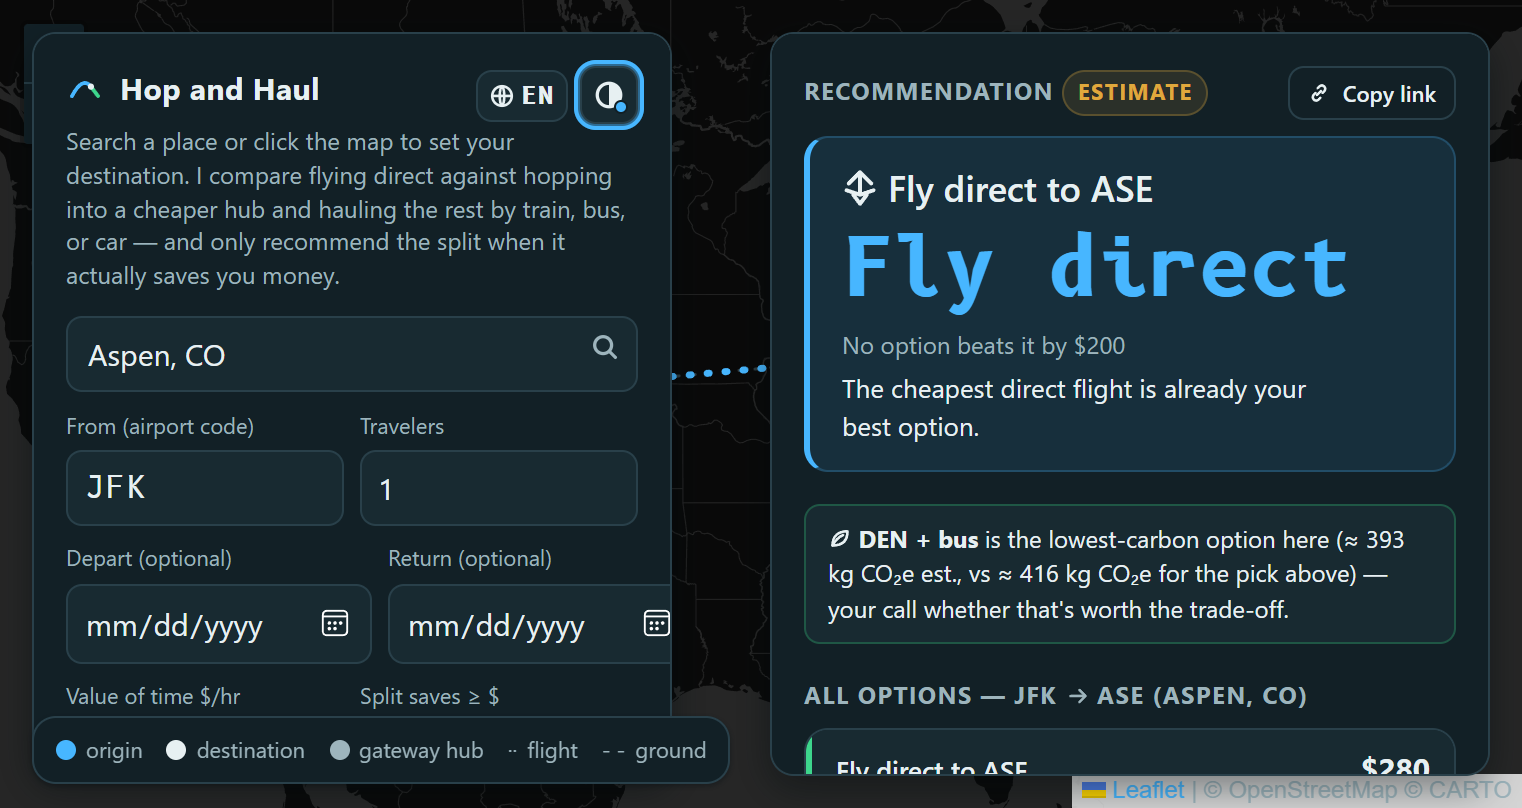
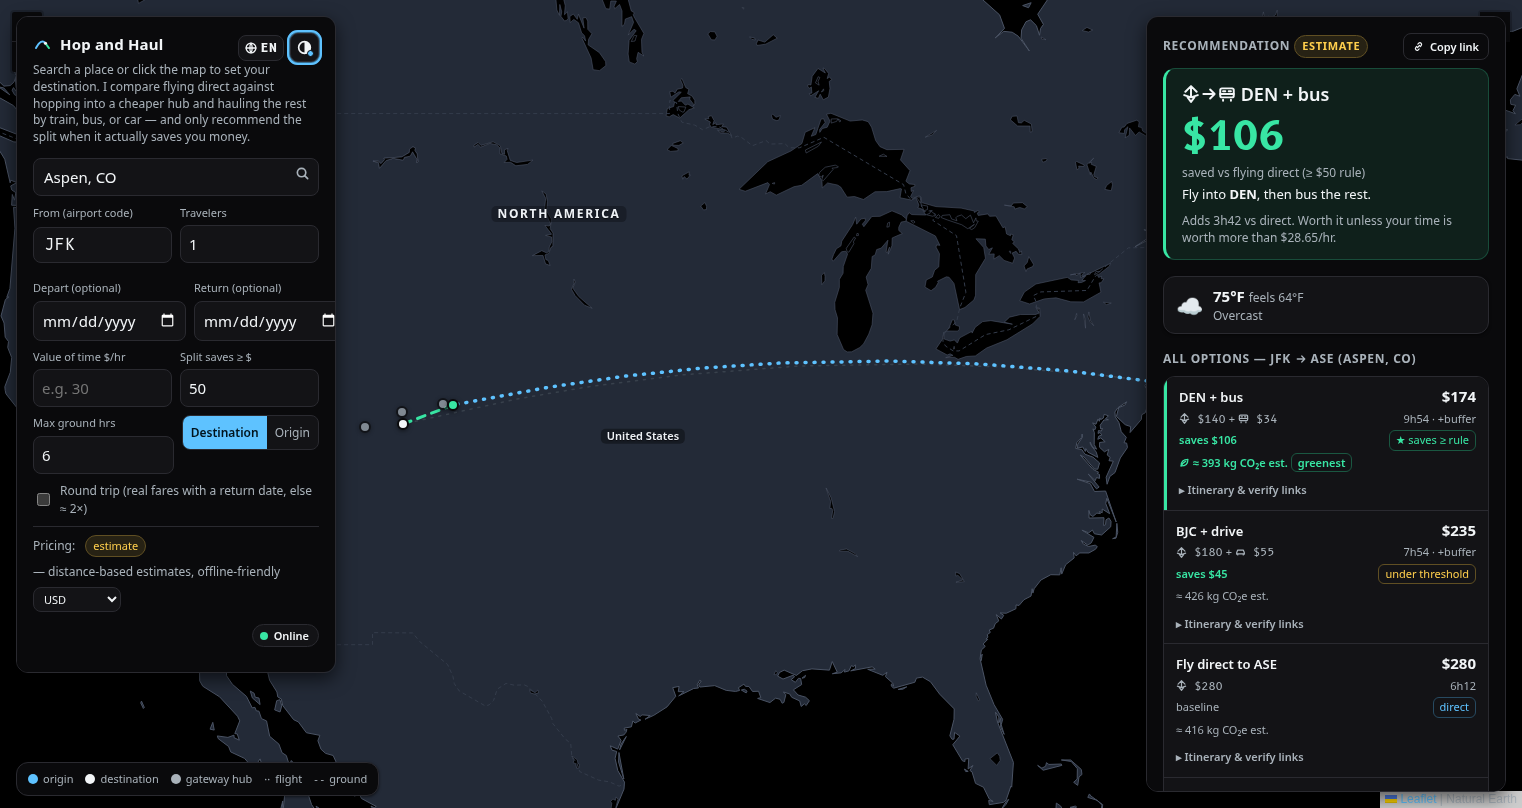
Tell the README the truth about what shipped
The currency paragraph said the web UI was USD-only. The features list
credited CARTO for a map the app now draws itself from Natural Earth.
The multicity example carried prices from before the Bustang fare fix.
All three screenshots showed the old tiles. Regenerated against the
running app and rewrote only the sentences whose facts changed.

diff --git a/README.md b/README.md
@@ -11,7 +11,7 @@ train ride from there is worth it.**
 > **Try it live:** [munzzyy.github.io/hopandhaul](https://munzzyy.github.io/hopandhaul/).
 > No install, no keys, runs entirely in your browser.
 
-![Click a destination and the recommendation card answers with the math: cost, time, CO2 per option, the $200 rule applied](docs/media/app-dark.png)
+![Click a destination and the recommendation card answers with the math: cost, time, CO2 per option, the $200 rule applied, on a self-drawn offline map](docs/media/app-dark.png)
 
 Click anywhere on the map and a recommendation card slides in: cost, time, and a CO2
 estimate for every option side by side. A copy-link button turns the plan into a URL you
@@ -101,21 +101,21 @@ hopandhaul multicity --home JFK --visit "Aspen,Boston,Chicago" --threshold 50
 ```
 
 ```
-MULTI-CITY TOUR: JFK -> ASE -> ORD -> BOS -> JFK
+MULTI-CITY TOUR: JFK -> BOS -> ORD -> ASE -> JFK
 round trip, 4 stops, solved via held-karp (exact)
 
 ITINERARY:
-  1. JFK -> ASE     $215    9h54  multimodal (fly $140 + bus $75)
-  2. ASE -> ORD     $170    3h06  direct     (fly $170)
-  3. ORD -> BOS     $105    3h06  direct     (fly $105)
-  4. BOS -> JFK      $70    1h30  direct     (fly $70)
+  1. JFK -> BOS      $70    1h30  direct     (fly $70)
+  2. BOS -> ORD     $105    3h06  direct     (fly $105)
+  3. ORD -> ASE     $139    8h36  multimodal (fly $105 + bus $34)
+  4. ASE -> JFK     $174    9h54  multimodal (bus $34 + fly $140)
 
-TOTAL: $560 across 4 legs
+TOTAL: $488 across 4 legs
 ```
 
-That first leg is the point: at a $50 threshold, flying into Denver and taking a bus the
-rest of the way to Aspen beats a direct flight, so the tour routes through DEN instead of
-pricing every leg as a straight flight. `--open` ends the tour at the last stop instead of
+Those Aspen legs are the point: at a $50 threshold, flying into Denver and taking the posted
+$34 Bustang fare the rest of the way beats a direct flight, so the tour routes through DEN
+instead of pricing every leg as a straight flight. `--open` ends the tour at the last stop instead of
 looping back home, and `--travelers N` scales group costs the same way the rest of the
 engine does. Up to about 9 cities it solves exactly (Held-Karp); past that it switches to a
 nearest-neighbor-plus-2-opt heuristic and says so in the output.
@@ -186,9 +186,14 @@ More of this tool is real data than you'd guess for something with zero keys:
   on those legs are still estimates, because schedules are open data and ticket prices mostly aren't.
 - **US fares are anchored to what passengers actually paid.** The bundled
   [BTS Consumer Airfare Report](https://data.transportation.gov/d/yj5y-b2ir) extract (public
-  domain) carries real average fares for ~4,100 US city-pair markets; the model is clamped
-  into each route's real band, and the itinerary shows the real market numbers next to the
-  estimate.
+  domain, currently 2025Q2-2026Q1) carries real average fares for ~4,100 US city-pair markets;
+  the model is clamped into each route's real band, and the itinerary shows the real market
+  numbers next to the estimate.
+- **The base map is self-drawn, not fetched.** Land, lakes, and borders are rasterized from
+  bundled Natural Earth 1:50m geometry, themed to match whichever of the 8 UI themes is active,
+  with zero tile requests and no watermark. An opt-in "detailed map" layer streams real
+  OpenStreetMap raster tiles once you turn it on, and falls back to the drawn map automatically
+  if that connection drops.
 - **Live airfares (Duffel)**: actual priced itineraries when you set `DUFFEL_API_KEY`: real
   carrier, flight number, and clock times, labeled "live" instead of "example." No key falls
   back to the labeled estimate automatically. (The old Amadeus fallback is gone: Amadeus shut
@@ -197,6 +202,10 @@ More of this tool is real data than you'd guess for something with zero keys:
   competition, airport size, booking date) calibrated against real fares. Every estimate says
   so: `"pricing_source": "estimate"` in the API, plain English in the UI, per-leg provenance
   in the itinerary. It's a model, not a promise; verify before booking.
+- **The last mile is priced too, not assumed away.** An airport is a stand-in for the place you
+  actually clicked; when the two are more than 12km apart, every option (the direct flight
+  included) prices a real final ground leg from the airport onward to that point. Where no
+  honest way to cross the gap exists, the tool says so instead of inventing one.
 - **Weather ([Open-Meteo](https://open-meteo.com))** and **place search
   ([Photon](https://photon.komoot.io))** are real, live, and keyless. A Geoapify key upgrades
   search to full address-level geocoding if you want it.
@@ -218,11 +227,21 @@ More of this tool is real data than you'd guess for something with zero keys:
   fly, live-priced when a Duffel key is set, labeled per date so you know which
 - Deterministic split-vs-direct engine with the $200 rule (configurable threshold and value
   of time)
-- Group-aware costs (per-person fares scale by travelers; a rental car doesn't)
+- Group-aware costs (per-person fares scale by travelers; a rental car scales per-vehicle
+  instead, `ceil(travelers / 4)` cars, priced and said so)
 - Round-trip aware (real return pricing when the provider supports it, a stated estimate
   otherwise)
-- Gateway discovery: curated hub suggestions plus geometric fallback search, worldwide
-- Click-anywhere map UI (Leaflet self-hosted; map tiles stream from CARTO's servers)
+- Gateway discovery: curated hub suggestions plus geometric fallback search, worldwide, on
+  both ends of the trip (a remote or expensive origin gets split options too, not just the
+  destination)
+- Every option prices the actual point you clicked, not just the airport: a final ground leg
+  covers the gap when your destination is meaningfully far from its airport
+- Click-anywhere map UI (Leaflet self-hosted; the base map is drawn from bundled Natural Earth
+  geometry, zero tile servers, works fully offline; an opt-in "detailed map" layer streams real
+  OpenStreetMap tiles only once you turn it on)
+- An Online/Offline status chip next to the pricing badge (Auto/Online/Offline) tells you
+  plainly what the app is allowed to reach; offline mode skips every external request and
+  sticks to bundled data
 - UI in 46 languages, four of them fully right-to-left, behind a hand-rolled i18n runtime
   instead of a framework. Pick yours from the globe button
 - Eight themes plus Auto, picked from the header: Departure Board, Boarding Pass, Night
@@ -248,11 +267,12 @@ instead of breaking.
 Native speaker and you spot something off? A translation fix in
 `src/hopandhaul/ui/i18n/<code>.json` is about the friendliest PR there is.
 
-The language switches; the money doesn't, yet. The web UI still quotes every price in USD
-no matter which of the 46 languages it's showing. The CLI commands (`go`, `duffel`,
-`multicity`, `dates`) already take `--currency EUR` (or GBP, JPY, INR, and most other
-world currencies) to print the report in that currency instead - the $200 rule and every
-internal comparison stay in USD, only the final printed number changes:
+The web UI has its own display-currency selector now (USD by default): live daily ECB rates
+from [frankfurter.dev](https://frankfurter.dev) when the app is online, a bundled approximate
+table offline, labeled which one is in use. The CLI commands (`go`, `duffel`, `multicity`,
+`dates`) take the same idea as `--currency EUR` (or GBP, JPY, INR, and most other world
+currencies) to print the report in that currency instead. Either way, the $200 rule and every
+internal comparison stay in USD; only the final printed number changes:
 
 ```
 hopandhaul go JFK "Tallinn" --date 2027-06-15 --currency EUR
@@ -262,8 +282,9 @@ hopandhaul go JFK "Tallinn" --date 2027-06-15 --currency EUR
 
 - `trip.py`: the $200-rule math. Given a set of priced options, decides what to recommend and
   why.
-- `geo.py`: the estimation model. Nearest airport, gateway discovery, and the distance-based
-  fare/ground formulas.
+- `geo.py`: the estimation model. Nearest airport, gateway discovery run symmetrically on both
+  origin and destination (so a remote/expensive origin gets split options too), the final-leg
+  ground calculation for the actual clicked point, and the distance-based fare/ground formulas.
 - `itinerary.py`: turns a priced option into a leg-by-leg timeline with real airport names, an
   example (or, with a live fare, real) clock schedule, per-leg price provenance, and a verify
   link. No invented flight numbers, no fake departure-time precision, no pretending a
@@ -280,9 +301,26 @@ hopandhaul go JFK "Tallinn" --date 2027-06-15 --currency EUR
   small city counts; nearest-neighbor + 2-opt above that) over a cost matrix built by pricing
   every leg through `geo.py`/`trip.py`, the same way `go.py`/`server.py` price one.
 - `server.py`: the stdlib `http.server` app. Serves the UI and the JSON API, nothing else.
+- `ui/atlas.js`: the self-drawn base map, a Leaflet `GridLayer` that paints land, lakes, and
+  borders on a canvas tile from bundled Natural Earth geometry instead of a raster tile
+  server, themed per UI theme. `ui/map.js` layers an opt-in OSM detail tile layer over it,
+  requested only once you turn it on, with an automatic fall back to the drawn map if that
+  connection fails.
+- `ui/connectivity.js` / `ui/netchip.js`: the explicit Auto/Online/Offline mode and its status
+  chip. Offline (forced, or auto-detected via the browser's own online/offline state) gates
+  every external fetch in `ui/api.js`/`ui/transit.js`, so live schedules, extended place
+  search, weather, live FX, and the OSM detail layer honestly announce they need a connection
+  instead of silently retrying.
+- `ui/fx.js`: the web UI's display-currency conversion, mirroring `duffel.py`'s FX table as the
+  offline fallback and upgrading to a live daily ECB rate from frankfurter.dev when online. The
+  $200 rule and all internal math stay USD; this only changes what gets printed.
+- `ui/sw.js`: the PWA service worker. Boots a shared deep link while offline, keeps downloaded
+  language catalogs cached across app updates, and gets its cache name stamped with the commit
+  SHA on every Pages deploy.
 - `data/`: the bundled real-world datasets. 4,175 airports (OurAirports), 85 ferry corridors
-  (researched, sourced per entry), a 0.25° land/water grid (Natural Earth), and real US
-  market fares (BTS). `tools/` has the scripts that regenerate them.
+  (researched, sourced per entry), a 0.25° land/water grid and the basemap geometry (both
+  Natural Earth), and real US market fares (BTS). `tools/` has the scripts that regenerate
+  them.
 
 Every one of these is a plain, readable module you can open and check the reasoning of, not a
 black box. See `docs/api.md` for the exact HTTP contract.
@@ -329,8 +367,8 @@ The bundled datasets and keyless services this tool leans on, with licenses:
 
 - **[OurAirports](https://ourairports.com/data/)**: the 4,175-airport database (public
   domain).
-- **[Natural Earth](https://www.naturalearthdata.com/)**: the land/water grid is rasterized
-  from their 1:50m land polygons (public domain).
+- **[Natural Earth](https://www.naturalearthdata.com/)**: the land/water grid and the
+  self-drawn base map are both rasterized from their 1:50m land polygons (public domain).
 - **[US DOT/BTS Consumer Airfare Report](https://data.transportation.gov/d/yj5y-b2ir)**:
   real US city-pair market fares (US government work, public domain).
 - **Ferry corridors**: researched by hand from operator and aggregator pages; every entry in
@@ -340,10 +378,11 @@ The bundled datasets and keyless services this tool leans on, with licenses:
 - **[Photon](https://photon.komoot.io)** by komoot: keyless geocoding over OpenStreetMap
   data. Map data on both: © OpenStreetMap contributors,
   [ODbL](https://www.openstreetmap.org/copyright).
+- **[OpenStreetMap](https://www.openstreetmap.org/copyright)**: the opt-in "detailed map" raster
+  tile layer you can switch on over the self-drawn base, © OpenStreetMap contributors, ODbL.
 - **[Open-Meteo](https://open-meteo.com)**: weather, CC-BY 4.0, free for non-commercial use.
-- **[frankfurter.dev](https://frankfurter.dev)**: daily ECB exchange rates for converting
-  non-USD live fares; the bundled approximate table is the offline fallback.
-- **[CARTO](https://carto.com/attributions)** basemap tiles © OpenStreetMap contributors.
+- **[frankfurter.dev](https://frankfurter.dev)**: daily ECB exchange rates for the display
+  currency selector (both web and CLI); the bundled approximate table is the offline fallback.
 
 ## Contributing / License / Security
 
